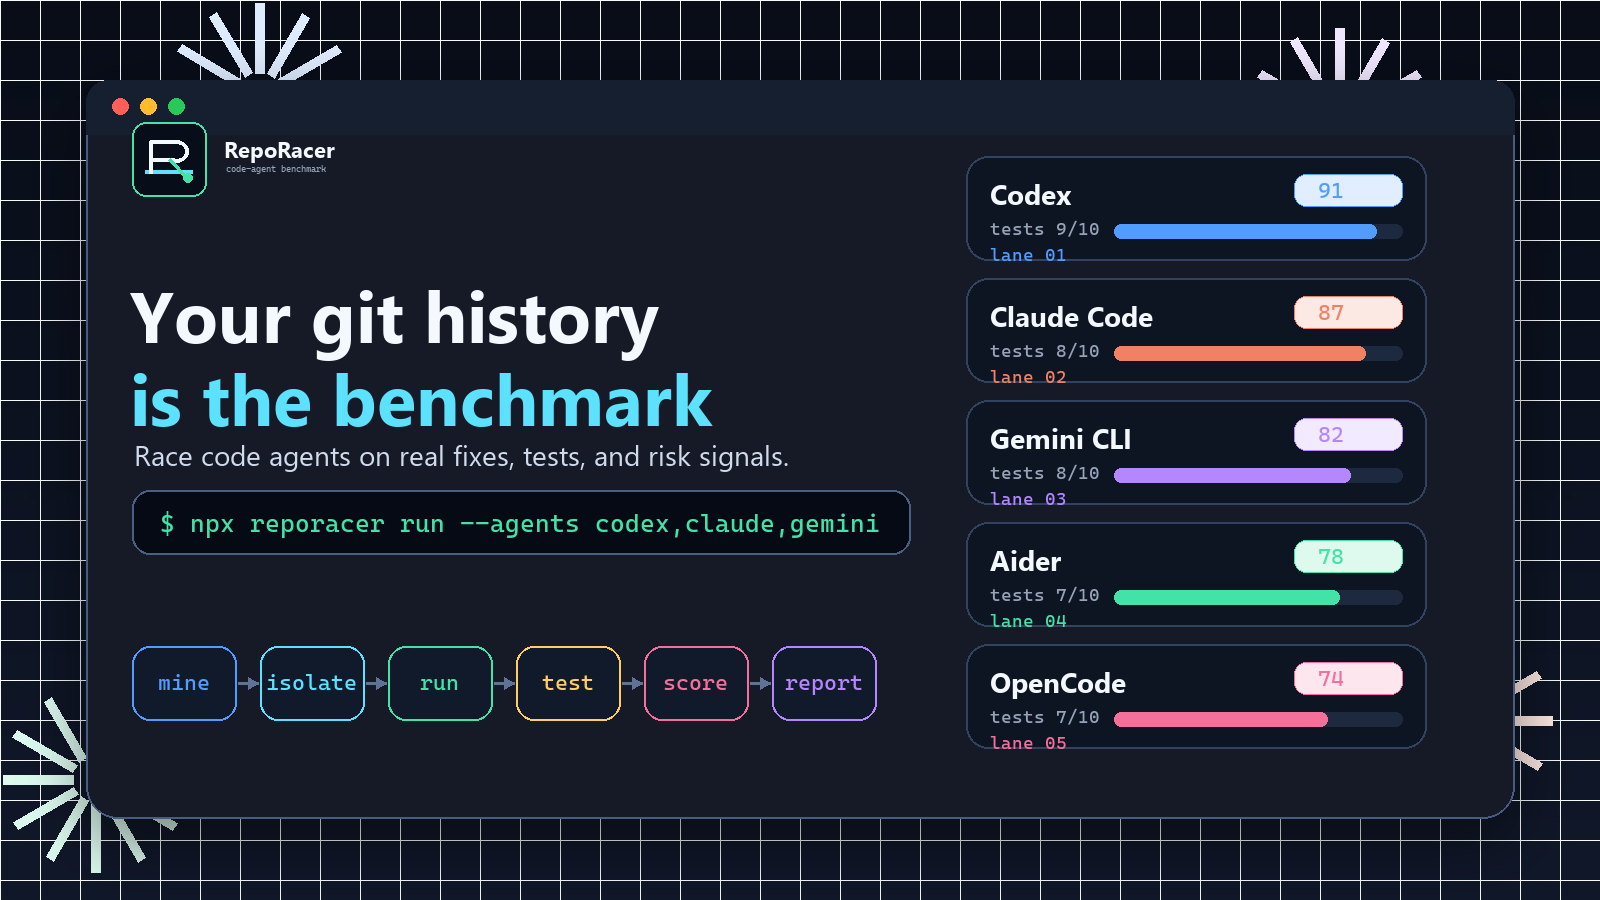
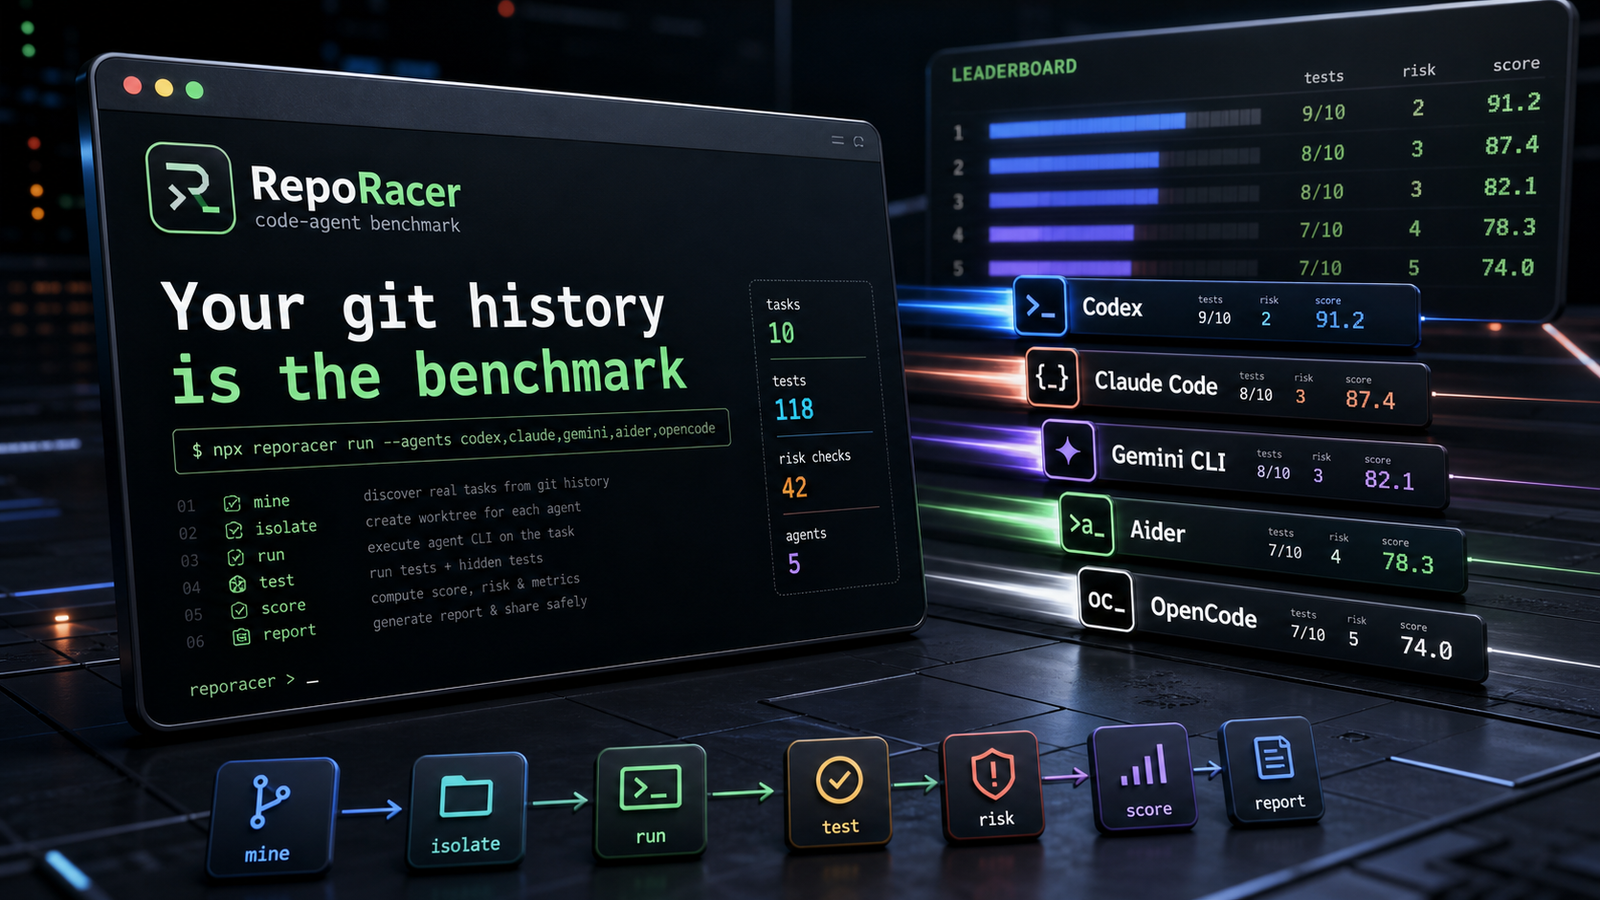
docs: replace visuals with generated launch assets

diff --git a/scripts/release-audit.js b/scripts/release-audit.js
@@ -42,7 +42,9 @@ const requiredFiles = [
   "scripts/generate-third-party-notices.js",
   "assets/reporacer-hero.png",
   "assets/architecture-pipeline.png",
-  "assets/social-preview.png"
+  "assets/social-preview.png",
+  "assets/terminal-demo.png",
+  "assets/report-demo.png"
 ];
 const requiredPackedFiles = [
   "dist/cli.js",
@@ -65,7 +67,8 @@ const requiredPackedFiles = [
   "assets/reporacer-hero.png",
   "assets/architecture-pipeline.png",
   "assets/social-preview.png",
-  "assets/social-preview.svg",
+  "assets/terminal-demo.png",
+  "assets/report-demo.png",
   "docs/public/reporacer-hero.png",
   "docs/public/architecture-pipeline.png",
   "docs/public/social-preview.png",

diff --git a/docs/index.md b/docs/index.md
@@ -29,6 +29,6 @@ features:
 
 <img src="/architecture-pipeline.png" alt="RepoRacer architecture pipeline visualization" style="width:100%;border-radius:14px;border:1px solid rgba(125, 211, 252, 0.25);box-shadow:0 18px 54px rgba(2, 6, 23, 0.22);" />
 
-![Terminal demo](../assets/terminal-demo.svg)
+![Terminal demo](../assets/terminal-demo.png)
 
-![Report demo](../assets/report-demo.svg)
+![Report demo](../assets/report-demo.png)

diff --git a/README.md b/README.md
@@ -38,7 +38,7 @@ RepoRacer is not a synthetic prompt leaderboard. It benchmarks agent CLIs agains
 
 RepoRacer turns commits into benchmark lanes: mined tasks, isolated worktrees, agent commands, tests, risk scanning, score composition, and a static report you can inspect or publish.
 
-![RepoRacer terminal demo](assets/terminal-demo.svg)
+![RepoRacer terminal demo](assets/terminal-demo.png)
 
 ## What It Does
 
